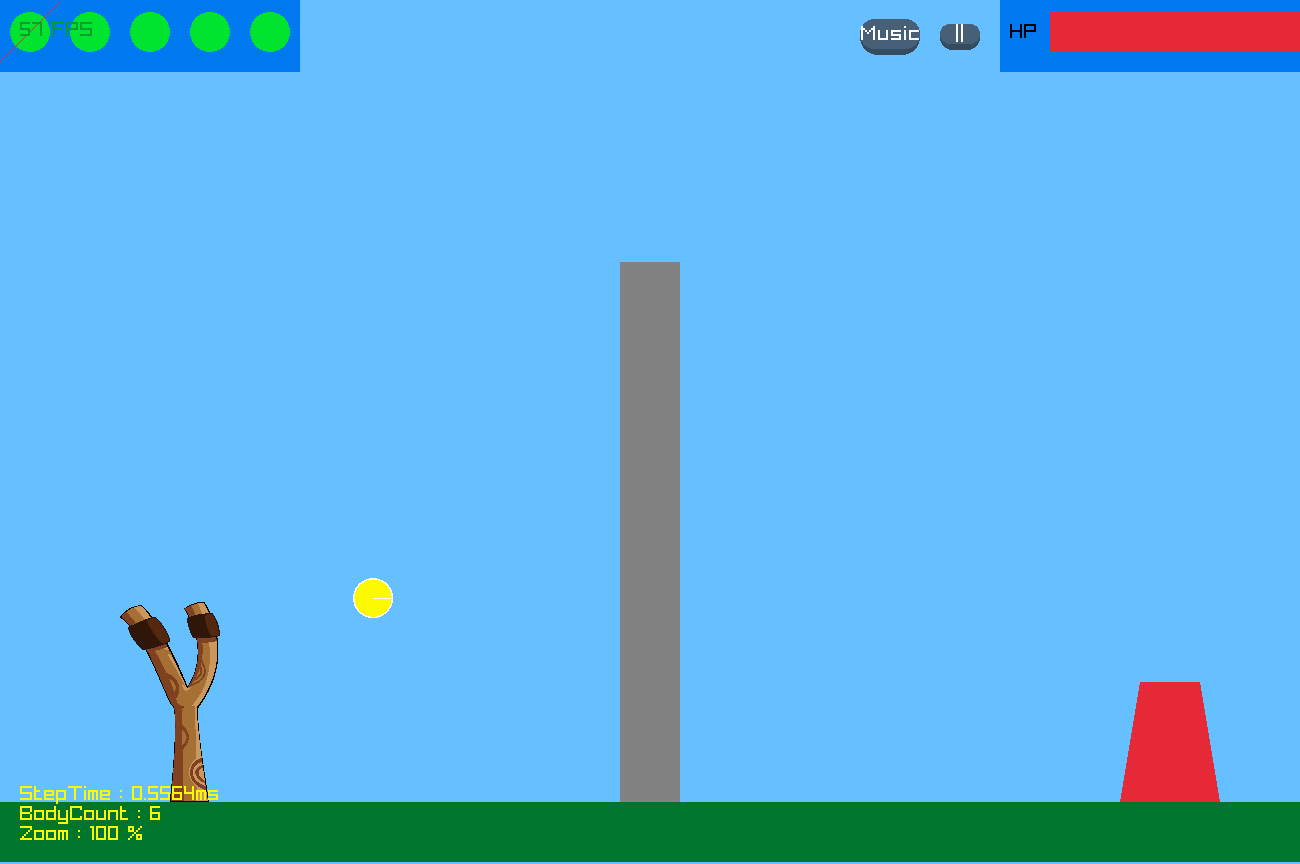
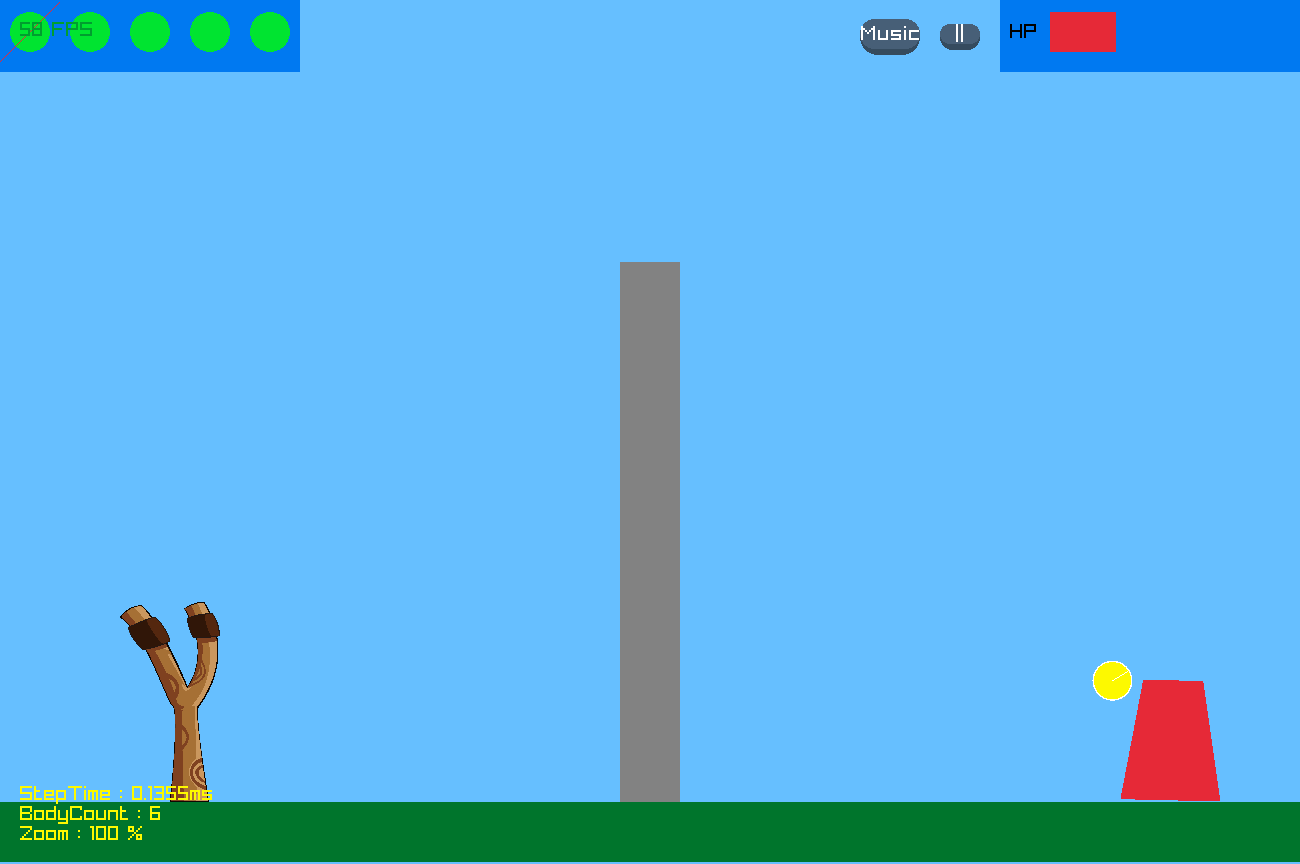
docs(readme): re-shoot the demo with a hit on the enemy

diff --git a/README.md b/README.md
@@ -10,7 +10,7 @@ the enemy's HP to zero; damage depends on how hard it is hit.
 
 ## Screenshots
 
-![Title screen](docs/media/screenshot-1.png) ![Slingshot shot in flight](docs/media/screenshot-2.png)
+![Title screen](docs/media/screenshot-1.png) ![Shot hitting the enemy](docs/media/screenshot-2.png)
 
 ![Short gameplay recording](docs/media/demo.gif)
 
@@ -30,7 +30,7 @@ as the working directory (the Visual Studio default).
 ## Controls
 
 - Start / Exit buttons on the title screen
-- Drag and release the projectile with the left mouse button to launch it
+- Drag and release the projectile with the left mouse button to launch it; the launch speed depends only on the pull, not on the frame rate
 - Mouse wheel: zoom, arrow keys: pan the camera, `T`: reset the camera
 - `||` button: pause menu, `Music` button: switch or mute background music
 - `C` / `G`: jump to the game-clear / game-over screen (debug shortcuts)
